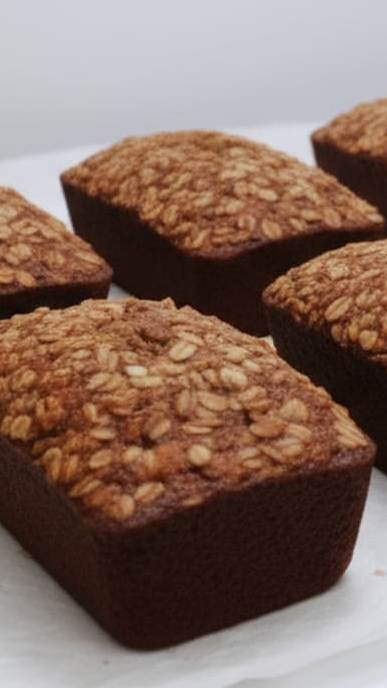
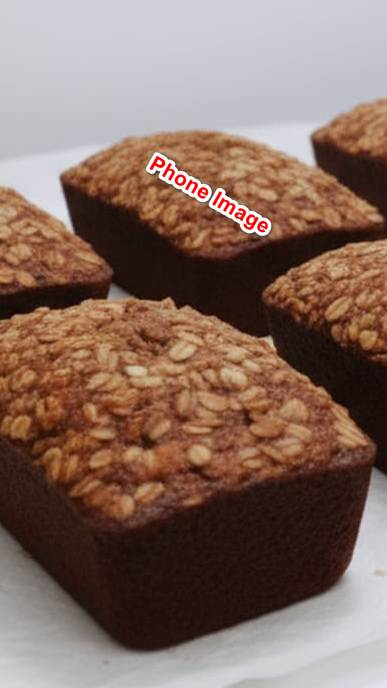
Possible fix for late loading

Changed region(s): [[0.3721, 0.2137, 0.7132, 0.3663]]

diff --git a/styles.css b/styles.css
@@ -19,10 +19,10 @@ h1 {
   letter-spacing: -0.1rem;
   line-height: 1.1;
   color: #fff;
-  background-color: rgba(0, 0, 0, 0.3);
+  background-color: rgba(0, 0, 0, 0.2);
   backdrop-filter: blur(20px);
   padding: 10px;
-  border-radius: 4px;
+  border-radius: 4px 4px 0 0;
   width: 600px;
   max-width: 80vw;
 }
@@ -33,10 +33,10 @@ h2 {
   width: 600px;
   max-width: 80vw;
   color: #fff;
-  background-color: rgba(0, 0, 0, 0.3);
+  background-color: rgba(0, 0, 0, 0.2);
   backdrop-filter: blur(20px);
   padding: 10px;
-  border-radius: 4px;
+  border-radius: 0 0 4px 4px;
 }
 
 p {
@@ -132,23 +132,28 @@ section {
   background-image: url(public/outro.jpg);
 }
 
+
 /* Titles over hero */
+
+.intro-text {
+  position: absolute;
+  top: 80%;
+  left: 50%;
+  transform: translate(-50%, -50%);
+  text-align: center;
+  width: 60%;
+  max-width: 500px;
+}
+
 .intro h1,
 .outro h1 {
-  position: absolute;
-  top: 76%;
-  left: 150px;
-  width: 50%;
   font-size: 30px;
   max-width: 650px;
+  text-transform: uppercase;
 }
 
 .intro h2,
 .outro h2 {
-  position: absolute;
-  top: 86%;
-  left: 150px;
-  width: 50%;
   font-size: 20px;
   max-width: 650px;
 }
@@ -254,6 +259,14 @@ section {
     RESPONSIVE
 --------------------------------*/
 @media (max-width: 768px) {
+
+  .intro-text {
+    Width: 96%;
+    top: 82%;
+  }
+
+
+
   h1 {
     font-size: 24px;
     letter-spacing: 0;

diff --git a/index.html b/index.html
@@ -16,6 +16,15 @@
   <!-- Lenis Smooth Scroll -->
   <script src="./libs/lenis.min.js"></script>
 
+  <link rel="preload" href="public/slides.json" as="fetch" crossorigin="anonymous">
+  <link rel="preload" as="image" href="./public/01.jpg">
+  <link rel="preload" as="image" href="./public/02.jpg">
+  <link rel="preload" as="image" href="./public/03.jpg">
+  <link rel="preload" as="image" href="./public/04.jpg">
+  <link rel="preload" as="image" href="./public/05.jpg">
+  <link rel="preload" as="image" href="./public/06.jpg">
+  <link rel="preload" as="image" href="./public/07.jpg">
+
 </head>
 
 <body>
@@ -30,12 +39,15 @@
   </nav>
 
   <section class="intro">
-    <h1>
-      Small Batch. Big Flavor. Unforgettable Cakes.
-    </h1>
-    <h2 class="subHead">We believe the best cakes come from real butter, fresh eggs, and patience. Taste the difference
-      of quality,
-      made-to-order baking, every single time.</h2>
+    <div class="intro-text">
+      <h1>
+        Small Batch - Big Flavor Unforgettable Cakes
+      </h1>
+      <h2 class="subHead">We believe the best cakes come from real butter, fresh eggs, and patience. Taste the
+        difference
+        of quality,
+        made-to-order baking, every single time.</h2>
+    </div>
   </section>
 
   <section class="slider">

diff --git a/script.js b/script.js
@@ -13,6 +13,15 @@ document.addEventListener("DOMContentLoaded", async () => {
   });
   gsap.ticker.lagSmoothing(0);
 
+  // FORCE ScrollTrigger to calculate positions immediately
+  requestAnimationFrame(() => {
+    ScrollTrigger.refresh();
+  });
+
+  window.addEventListener("load", () => {
+    ScrollTrigger.refresh();
+  });
+
   // DOM elements
   const progressBar = document.querySelector(".slider-progress");
   const sliderImages = document.querySelector(".slider-images");
